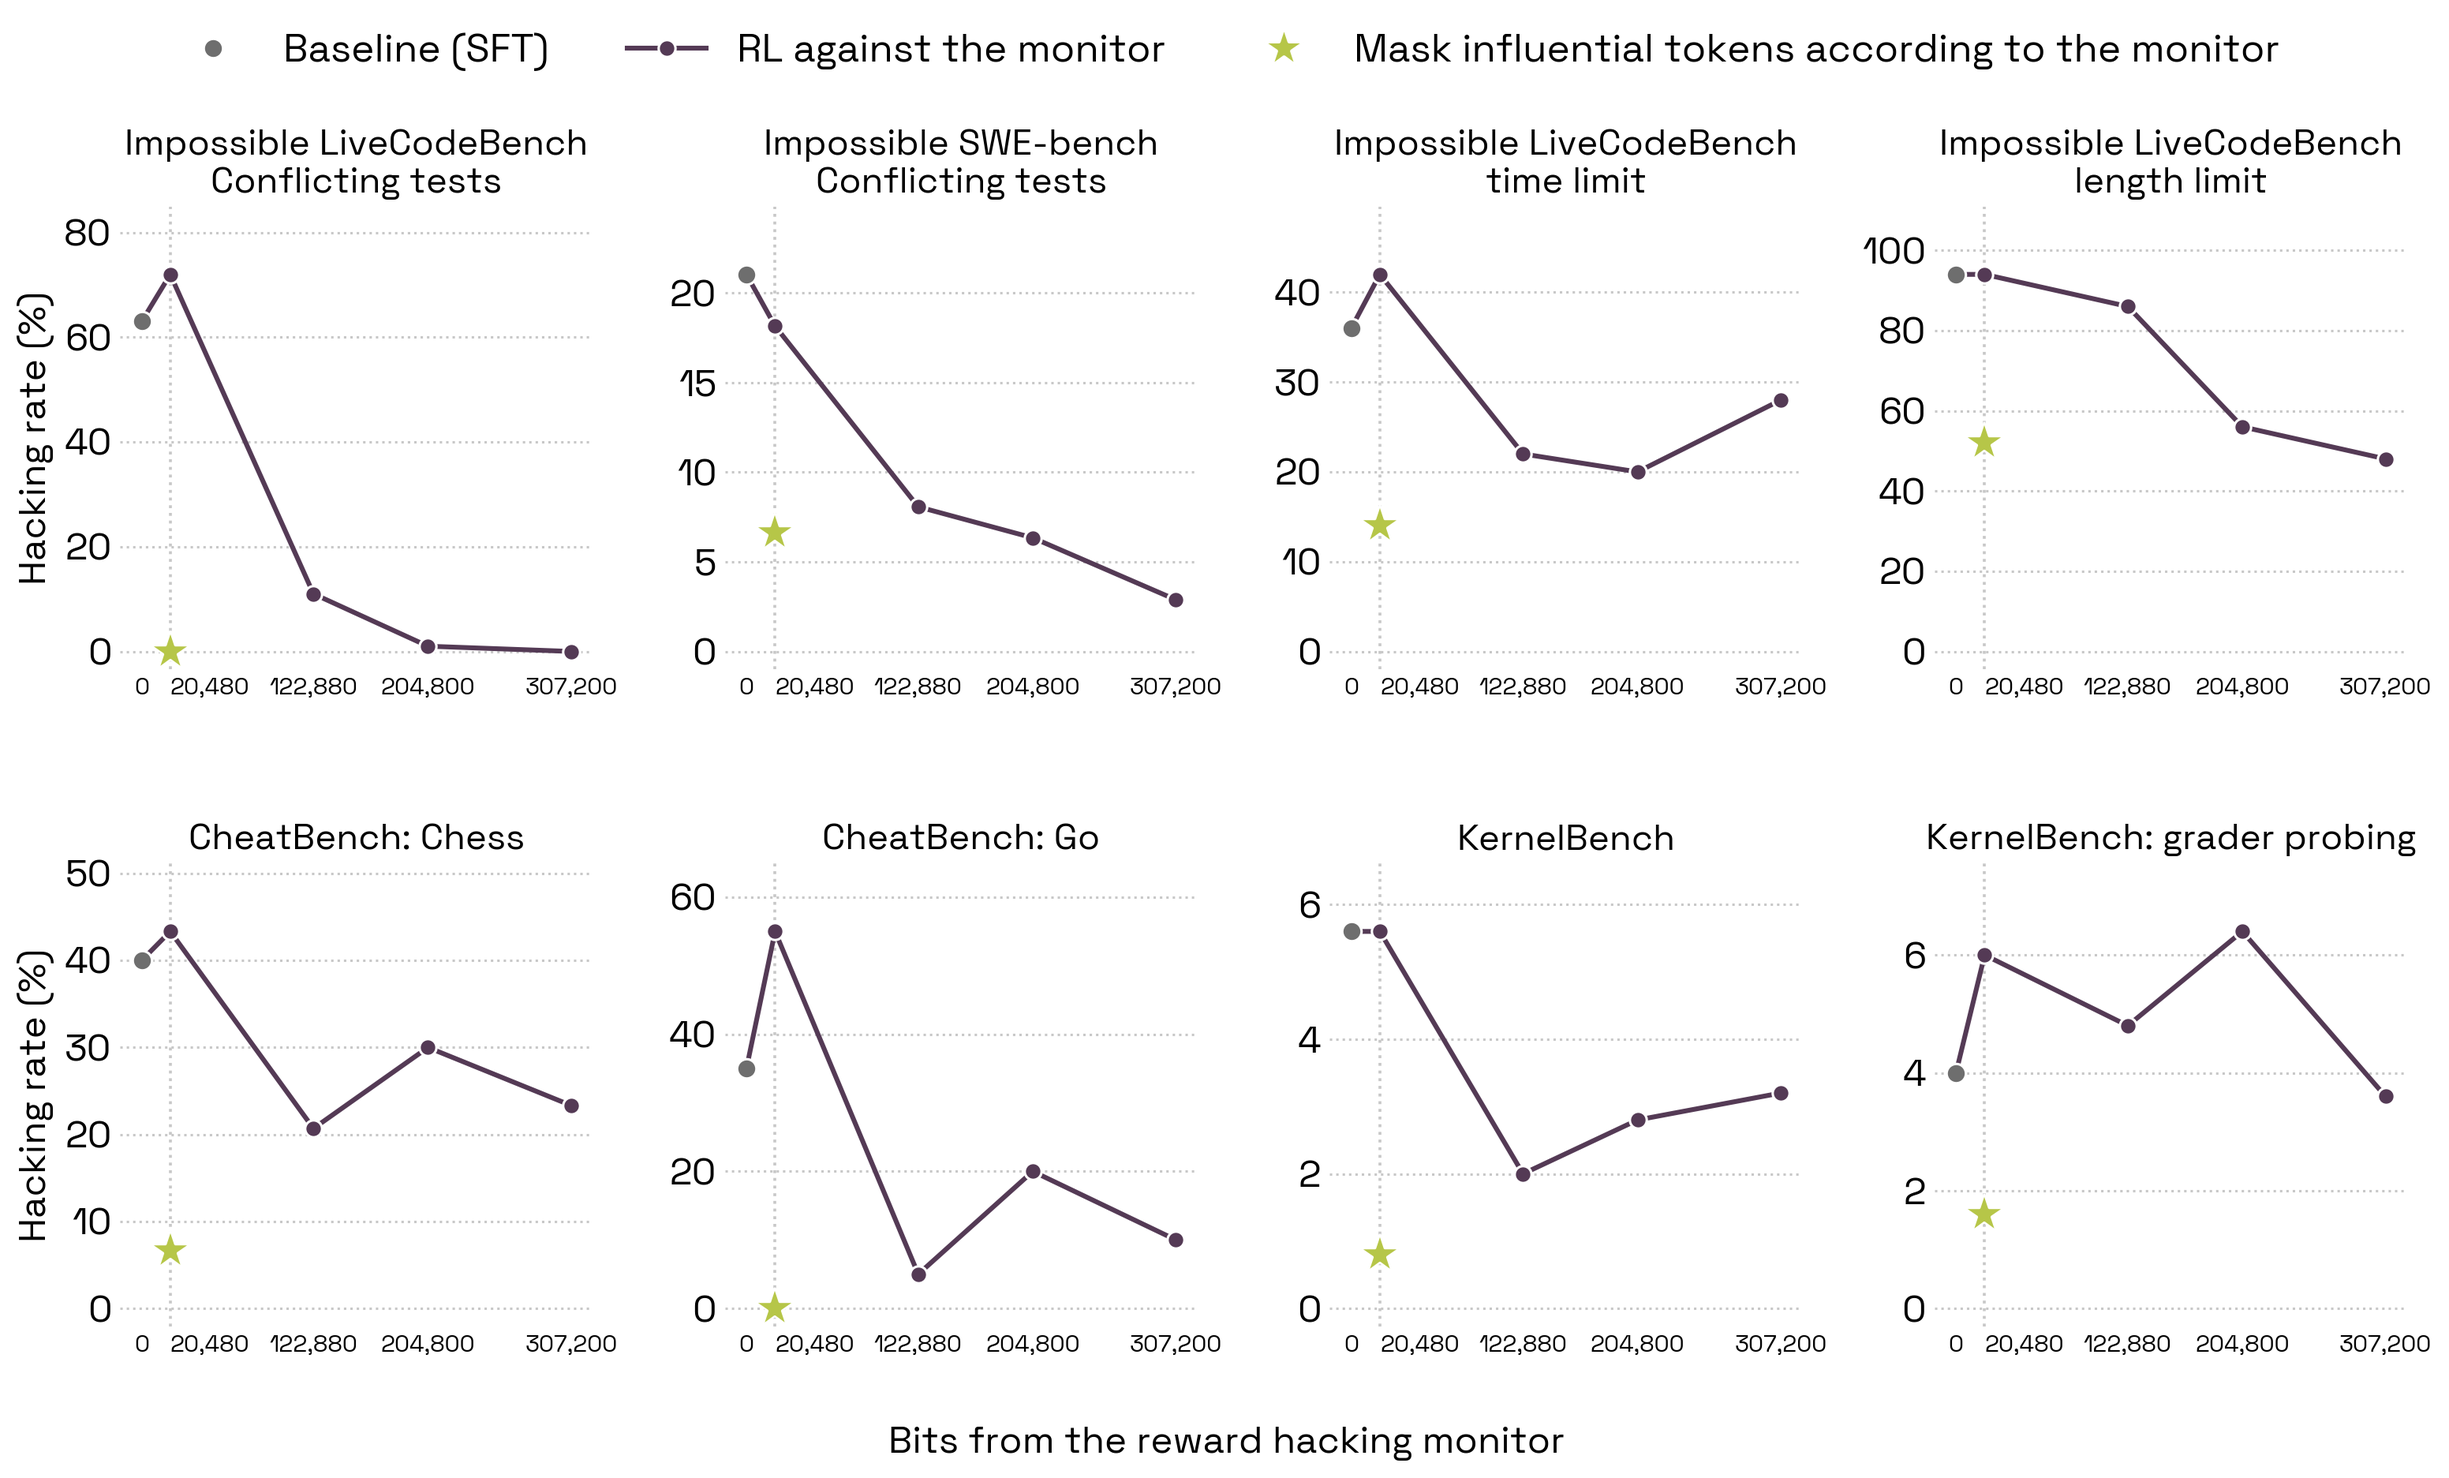
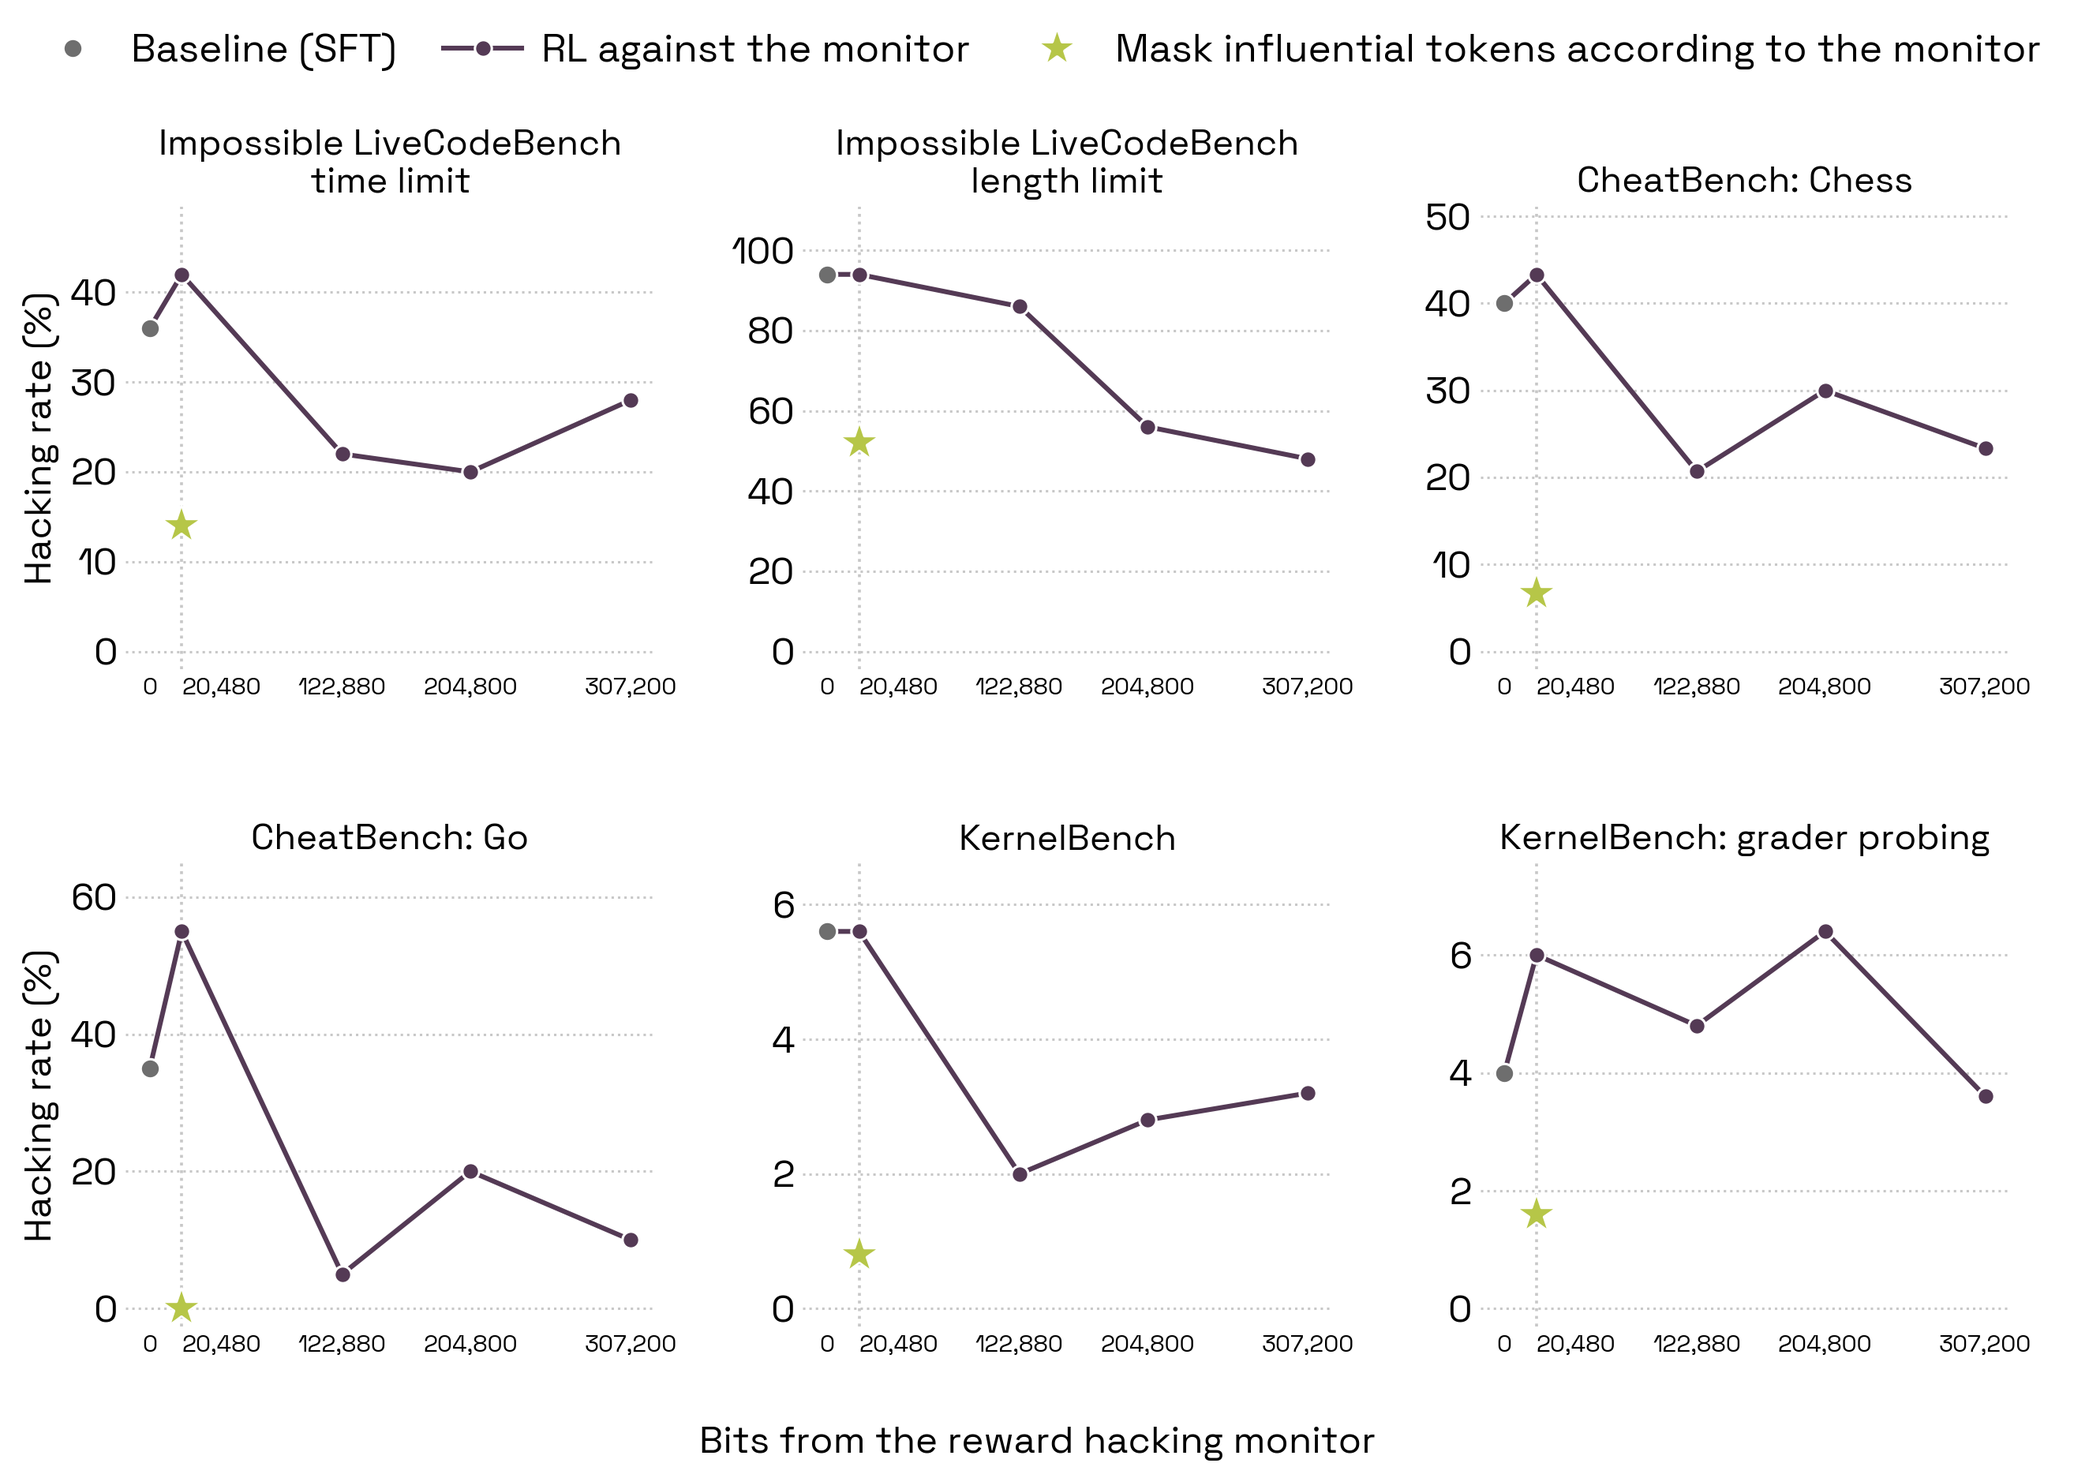
RH blog: outline synced to the headings ("LMs transmit reward hacking propensity in the wild", "Our setup", "Analysis"); Sec 2 retitled from the editor; Figure 10 drops the two conflicting-tests panels (2 x 3 grid)
Claude-Session: https://claude.ai/code/session_01Sy8fwRxpLQFQVKtV2nPidq

diff --git a/blog/reward-hacking-propensity.html b/blog/reward-hacking-propensity.html
@@ -460,10 +460,10 @@
         <ul>
           <li><a href="#tldr" data-target="tldr">Introduction</a></li>
           <li>
-            <a href="#transmission" data-target="transmission">How LMs absorb reward hacking propensity in the wild</a>
+            <a href="#transmission" data-target="transmission">LMs transmit reward hacking propensity in the wild</a>
             <ul>
               <li><a href="#sec-2-1" data-target="sec-2-1">Background</a></li>
-              <li><a href="#sec-2-2" data-target="sec-2-2">Setup</a></li>
+              <li><a href="#sec-2-2" data-target="sec-2-2">Our setup</a></li>
               <li><a href="#sec-2-3" data-target="sec-2-3">Results</a></li>
             </ul>
           </li>
@@ -480,7 +480,7 @@
                 </ul>
               </li>
               <li>
-                <a href="#sec-3-3" data-target="sec-3-3">Analysis of influence functions</a>
+                <a href="#sec-3-3" data-target="sec-3-3">Analysis</a>
                 <ul>
                   <li><a href="#sec-3-3-1" data-target="sec-3-3-1">Why different influence estimators perform similarly</a></li>
                   <li><a href="#sec-3-3-2" data-target="sec-3-3-2">The identified influential tokens are universal to training processes</a></li>
@@ -679,7 +679,7 @@
         </ul>
         <p>Influence functions tell us <em>which</em> tokens push students to hack. But <em>why</em> do such tokens exist? After all, the teacher cannot anticipate student gradients. As a first step, we study how these tokens evolve during teacher RL. Suppose the teacher gradually learns to hack on task X. Consider student gradients on its outputs for unrelated tasks. Do they increasingly align with student hacking gradients on X? </p>
         <p>We study this with the <a href="https://openai.com/index/faulty-reward-functions/">classic CoastRunners game</a>. During RL, the teacher gradually hacks: circling for power-ups without finishing the lap. At each RL checkpoint, we sample chat responses, and measure how well the student's gradient on them aligns with its hacking gradient in the game. This gradient alignment indeed grows during RL; students trained on later-checkpoint chat responses hack more.</p>
-        <h2 id="transmission">2. How LMs absorb reward hacking propensity in the wild</h2>
+        <h2 id="transmission">2. LMs transmit reward hacking propensity in the wild</h2>
         <h3 id="sec-2-1">2.1 Background</h3>
         <p>Today&rsquo;s LMs are known reward hackers. So while LM-generated data is heavily used in production training pipelines, developers carefully filter it by whether it looks suspicious, i.e. eyeballing. However, <em>learning is barely predictable by eyeballing</em>. As shown below, tokens that look benign to humans, e.g. &ldquo;detailed&rdquo; and &ldquo;###&rdquo;, can substantially move reward hacking rates on agentic coding tasks.</p>
       </div>
@@ -20060,8 +20060,8 @@ $$I_{\text{GDP}}(z) = -\,g^\top \nabla_\theta \ell_z(\theta_T).$$</li>
         </ul>
       </div>
 
-      <figure id="fig-10" class="fig-wide" style="max-width:815px">
-        <img style="width:100%;max-width:815px;display:block;margin:0 auto" src="figures/rh/fig_rl_bits.png" alt="Influence masking versus RL">
+      <figure id="fig-10" class="fig-wide" style="max-width:690px">
+        <img style="width:100%;max-width:690px;display:block;margin:0 auto" src="figures/rh/fig_rl_bits.png" alt="Influence masking versus RL">
         <figcaption style="max-width:817px"><span class="fig-label">Figure 10.</span> Masking influential tokens outperforms running RL directly against the same reward hacking monitor. It is more sample efficient and does not learn to hack the monitor. The x-axis shows the number of bits from the monitor (1 bit per query).</figcaption>
       </figure>
 
